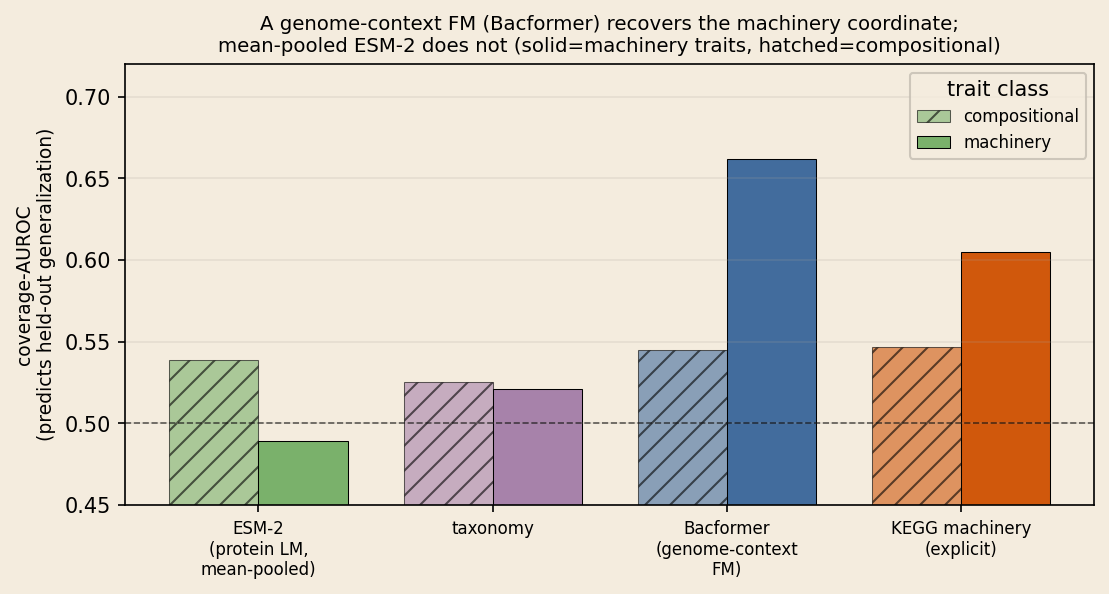
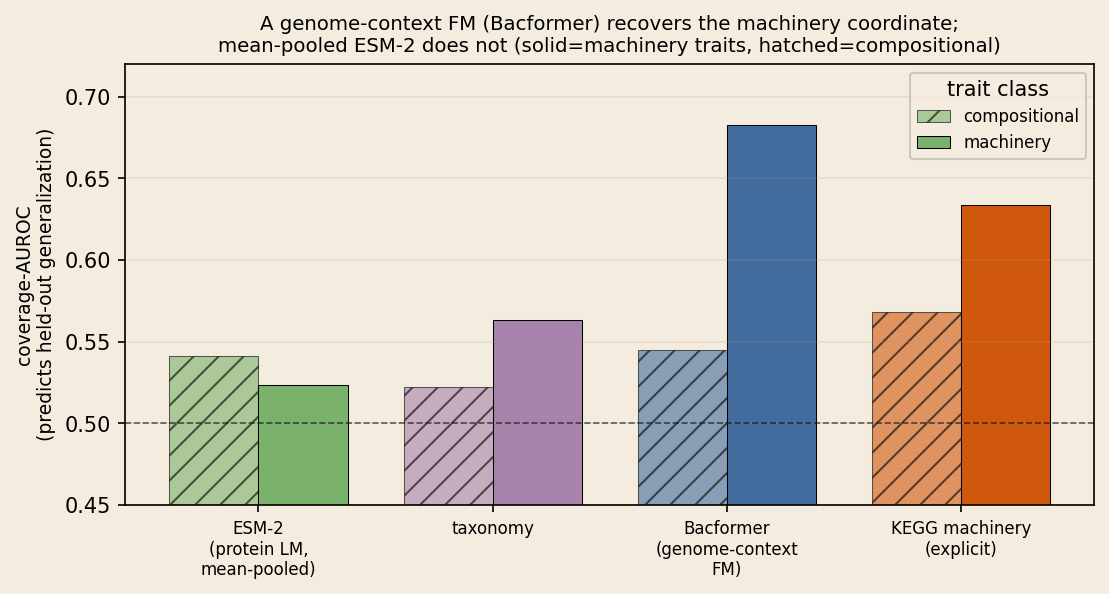
Update machinery paper: new PDF, refreshed figures, honest readout result
Bacformer coverage numbers updated for larger sample (n=9,062); the
representation-as-readout result is downgraded to a weak, non-significant
trend per the revised paper. Retitle that section accordingly.

diff --git a/writing/machinery-space-coverage.html b/writing/machinery-space-coverage.html
@@ -43,7 +43,7 @@
       <li><a href="#proxy">Not taxonomy in disguise</a></li>
       <li><a href="#penalty">A ceiling, and a taxonomy penalty</a></li>
       <li><a href="#bacformer">A foundation model recovers the coordinate</a></li>
-      <li><a href="#representation">Representation, not sampling</a></li>
+      <li><a href="#representation">Is it also a better readout?</a></li>
       <li><a href="#selective">A practical payoff: abstain when uncertain</a></li>
       <li><a href="#takeaway">What it means</a></li>
       <li><a href="#paper">Read the full paper</a></li>
@@ -160,8 +160,9 @@
       <em>mean-pooling a protein language model</em>, an operation that averages away gene content,
       the very thing machinery depends on? We repeat the coverage analysis with a fourth coordinate:
       Bacformer, a foundation model that represents proteins in genomic context (gene order and
-      content). For machinery traits, Bacformer-space proximity predicts generalization at 0.662, as
-      well as explicit KEGG pathways (0.605) and far above mean-pooled ESM-2 (0.489, below chance).
+      content). For machinery traits, Bacformer-space proximity predicts generalization at 0.683, as
+      well as or better than explicit KEGG pathways (0.633), and far above the near-chance
+      mean-pooled ESM-2 (0.523) and taxonomy (0.563).
       The machinery coordinate is thus not specific to a hand-built pathway ontology: a learned
       genome-context representation recovers it, provided it does not discard gene content by pooling.
     </p>
@@ -171,25 +172,25 @@
       <figcaption><b>Coverage-AUROC on the Bacformer subset.</b> For machinery traits, the genome-context foundation model (Bacformer) and explicit KEGG machinery predict generalization; mean-pooled ESM-2 and taxonomy do not. The failure localizes to the representation, not to foundation models as such.</figcaption>
     </figure>
 
-    <h2 id="representation">Representation, not sampling</h2>
+    <h2 id="representation">Is it also a better readout? A weak, honest trend</h2>
     <p>
-      The coverage analysis is diagnostic; can it be turned into a better model? The failed operator
-      result says re-sampling training data is not the lever; the Bacformer coverage result says the
-      <em>representation</em> is. Testing this directly gives a three-part answer. (i) Bacformer beats
-      mean-pooled ESM-2 <em>specifically</em> on machinery traits: +0.079 AUROC on machinery versus
-      +0.025 on compositional (interaction +0.054), with significant per-trait gains on pathogenicity
-      (human +0.108, animal +0.092). (ii) Raw orthogroup content (eggNOG) improves the readout broadly
-      (+0.03 to +0.04 on both classes) but shows no interaction: gene content helps everywhere, not
-      machinery-specifically. (iii) KEGG module completeness is a good coverage coordinate but a poor
-      readout (0.053 worse on machinery traits): metabolic-module similarity indicates whether a
-      genome's function is <em>covered</em> by training, yet is too coarse to <em>predict</em>
-      pathogenicity, which is not itself a metabolic module. The coverage coordinate and the readout
-      representation play different roles, and only a learned genome-context model fills both.
+      The coverage analysis is diagnostic; can the coordinate also improve the model directly, as
+      readout features? Testing this gives a deliberately unflattering three-part answer. (i) Bacformer
+      only <em>trends</em> toward helping machinery traits more than compositional (+0.033 vs +0.012;
+      interaction +0.021), consistent with the coverage result, but at 9,062 genomes no per-trait gain
+      is individually significant (pathogenicity human +0.036, animal +0.044, biosafety +0.020; all 95%
+      intervals include zero). An earlier estimate on a smaller subset looked significant (+0.10); it
+      did not survive more data, and we report the weaker, larger-sample result. (ii) Raw orthogroup
+      content (eggNOG) improves the readout broadly (+0.03 to +0.04 on both classes) with no
+      interaction. (iii) KEGG module completeness is a poor readout (0.053 worse on machinery traits)
+      despite being a good coverage coordinate. The through-line is a dissociation: the machinery
+      coordinate is a robust coverage and confidence signal but only a weak readout representation.
+      Measuring coverage in machinery space is the reliable lever; swapping input features is not.
     </p>
 
     <figure class="figure figure--narrow">
-      <img src="figures/machinery-fig4-representation.png" alt="Bar chart of AUROC gain over mean-pooled ESM-2 as a readout under held-out-family evaluation. Only Bacformer beats ESM-2 specifically on machinery traits (orange); eggNOG helps both trait classes; KEGG completeness is negative as a readout." />
-      <figcaption><b>AUROC gain over mean-pooled ESM-2 as a readout.</b> Only Bacformer, a genome-context foundation model, beats ESM-2 specifically on machinery traits (orange). eggNOG helps both classes; KEGG completeness is a coverage coordinate, not a readout.</figcaption>
+      <img src="figures/machinery-fig4-representation.png" alt="Bar chart of AUROC gain over mean-pooled ESM-2 as a readout under held-out-family evaluation. Bacformer only weakly and non-significantly trends toward helping machinery traits more (orange); eggNOG helps both trait classes; KEGG completeness is negative as a readout." />
+      <figcaption><b>Representation as readout: AUROC gain over mean-pooled ESM-2.</b> Bacformer only weakly and non-significantly trends toward helping machinery traits more (orange); eggNOG helps both classes; KEGG completeness is a coverage coordinate, not a readout.</figcaption>
     </figure>
 
     <h2 id="selective">A practical payoff: abstain when uncertain</h2>